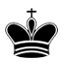
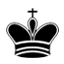
Reduced redundancy/increased clarity. Centered the king more
There had been two different functions, one for reading input for pawn
promotion, and one for move input. Combined these into one function
which has cases. (A third case for rotation as well).

diff --git a/index.html b/index.html
@@ -9,7 +9,7 @@
 	<center>
 	<font face="Merriweather, serif" size="6">
 	<form id="moveInput">
-	Move: <input name="name" type="text" size="25" onkeypress="handleMoveInput(event)" spellcheck="false" autocomplete="off">
+	Move: <input name="name" type="text" size="25" onkeypress="handleInput(event)" spellcheck="false" autocomplete="off">
 	</form>
 	</font>
 	</center>
@@ -43,35 +43,51 @@ var savedMoveText;
 
 var stillGoing = true;
 
-
-// Triggered on key press. Calls getMoveInput() if enter was pressed
-function handleMoveInput(e){
-	if(e.keyCode === 13){
-		getMoveInput();
+// Triggered on key press. Checks text box for rotation input,
+// movement input, and pawn promotion input (if applicable)
+function handleInput(e){
+	if(e.keyCode === 13){ // on enter
+		var form = document.getElementById("moveInput");
+		var text = form.elements["name"].value.toLowerCase();
+		rotating = getRotationInput(text, form);
+		if (!rotating){
+			if (promotingPawn){
+				getPawnPromotionInput(text, form);
+			} else {
+				getMoveInput(text, form);
+			}
+		}
 		e.preventDefault();
 	}
 	return false;
 }
 
+// Attempts to parse the text as a rotation command. Returns true if it was
+// accepted as a rotation command, false otherwise
+function getRotationInput(text, form){
+	if (text === "ro" || text === "rotate"){
+		boardy.rotated = !boardy.rotated;
+		form.elements["name"].value = "";
+		printBoard(boardy);
+		return true;
+	} else if (text === "ar" || text === "auto-rotate"){
+		boardy.autoRotate = !boardy.autoRotate;
+		form.elements["name"].value = "";
+		return true;
+	} else {
+		document.getElementById("info1").innerHTML="Invalid command";
+		return false;
+	}
+}
+
 // Reads input from the textbox and parses it. Checks if that move is
 // valid based on board positions and the indicated piece. If not valid,
 // that is displayed. If valid, control is passed to ValidMoveProcedure()
-function getMoveInput(){
+function getMoveInput(moveText, moveForm){
 	if (stillGoing){
-		var moveForm = document.getElementById("moveInput");
-		var moveText = moveForm.elements["name"].value.toLowerCase();
 		//check for correct string format
 		if (moveText.length !== 5|| moveText.substring(2, 3) !== " "){
-			if (moveText === "ro" || moveText === "rotate"){
-				boardy.rotated = !boardy.rotated;
-				moveForm.elements["name"].value = "";
-				printBoard(boardy);
-			} else if (moveText === "ar" || moveText === "auto-rotate"){
-				boardy.autoRotate = !boardy.autoRotate;
-				moveForm.elements["name"].value = "";
-			} else {
-				document.getElementById("info1").innerHTML="Invalid command";
-			}
+			document.getElementById("info1").innerHTML="Invalid command";
 		} else {
 			//parse for start and end positions, check if they are valid
 			var startPosition = getCoordsFromInput(moveText.substring(0,2));
@@ -113,14 +129,13 @@ function updateInfo2Display(){
 	}
 }
 
-//Applies a move (with the precondition that that move is valid). Once applied,
+//Goes through the procedure of applying a valid move to the board. Once applied,
 //checks if that move put the moving player in check. Undoes it if that is the case.
 //Otherwise, checks if it put the other player in check, if it caused a checkmate,
 //stalemate, etc.
 function validMoveProcedure(startPosition, endPosition, moveForm, moveText){
 	var piece = boardy.grid[startPosition.y][startPosition.x];
 	var target = getTarget(startPosition, endPosition);
-	//var target = boardy.grid[endPosition.y][endPosition.x];
 	var playerMakingMove = boardy.turn;
 	
 	//apply move, see if put self in check
@@ -131,16 +146,16 @@ function validMoveProcedure(startPosition, endPosition, moveForm, moveText){
 		undoMove(startPosition, endPosition, target);
 		document.getElementById("info1").innerHTML="Invalid Move, put's you in check";
 	} else {
-		//otherwise, don't undo, update stuff accordingly.
-		//see if we put the other person in check
+		//otherwise, check if we're promoting a pawn, update stuff
 		pawnPromotion(endPosition);
 		if (promotingPawn){
 			document.getElementById("info1").innerHTML="<br>";
 			savedMoveText = moveText;
 		} else {
 			document.getElementById("info1").innerHTML="Last move was " + moveText;
-			moveForm.elements["name"].value = "";
 		}
+		moveForm.elements["name"].value = "";
+		//see if some endgame condition has been triggered
 		checkEndGameConditions();
 	}
 }
@@ -473,29 +488,15 @@ function getTarget(startPosition, endPosition){
 //Sets things up for pawn promotion input, if applicable
 function pawnPromotion(endPosition){
 	if ((endPosition.y === 1 || endPosition.y === 8) && boardy.grid[endPosition.y][endPosition.x] instanceof Pawn){
-		document.getElementById("moveInput").innerHTML =
-		'Piece: <input name="name" type="text" size="20" onkeypress="handlePawnPromotionInput(event)" spellcheck="false" autocomplete="off">';
-		document.getElementById("moveInput").name.focus();
 		pawnPosition = endPosition;
 		promotingPawn = true;
 	}
 	
 }
 
-// Triggered on key press. Calls getPawnPromotionInput() if enter was pressed
-function handlePawnPromotionInput(e){
-	if(e.keyCode === 13){
-		getPawnPromotionInput();
-		e.preventDefault();
-	}
-	return false;
-}
-
 //Parses input for pawn promotion. Promotes if input is valid
-function getPawnPromotionInput(){
+function getPawnPromotionInput(pawnText, pawnForm){
 	if (stillGoing){
-		var pawnForm = document.getElementById("moveInput");
-		var pawnText = pawnForm.elements["name"].value.toLowerCase();
 		if (pawnText === "q" || pawnText === "queen" ||
 			pawnText === "b" || pawnText === "bishop" ||
 			pawnText === "r" || pawnText === "rook" ||
@@ -511,24 +512,15 @@ function getPawnPromotionInput(){
 			} else if (pawnText === "h" || pawnText === "horse" || pawnText === "knight"){
 				boardy.grid[pawnPosition.y][pawnPosition.x] = new Horse(pawn.owner, pawn.position);	
 			}
-			document.getElementById("moveInput").innerHTML =
-				'Move: <input name="name" type="text" size="20" onkeypress="handleMoveInput(event)" spellcheck="false" autocomplete="off">';
-			document.getElementById("moveInput").name.focus();
 			if (boardy.autoRotate){
 				boardy.rotated = !boardy.rotated;
 			}
 			printBoard(boardy);
 			document.getElementById("info1").innerHTML="Last move was " + savedMoveText;
+			pawnForm.elements["name"].value = "";
 			promotingPawn = false;
 			checkEndGameConditions();
 			updateInfo2Display();
-		} else if (pawnText === "ro" || pawnText === "rotate"){
-			boardy.rotated = !boardy.rotated;
-			pawnForm.elements["name"].value = "";
-			printBoard(boardy);
-		} else if (pawnText === "ar" || pawnText === "auto-rotate"){
-			boardy.autoRotate = !boardy.autoRotate;
-			pawnForm.elements["name"].value = "";
 		} else {
 			document.getElementById("info1").innerHTML="Invalid piece";
 		}
